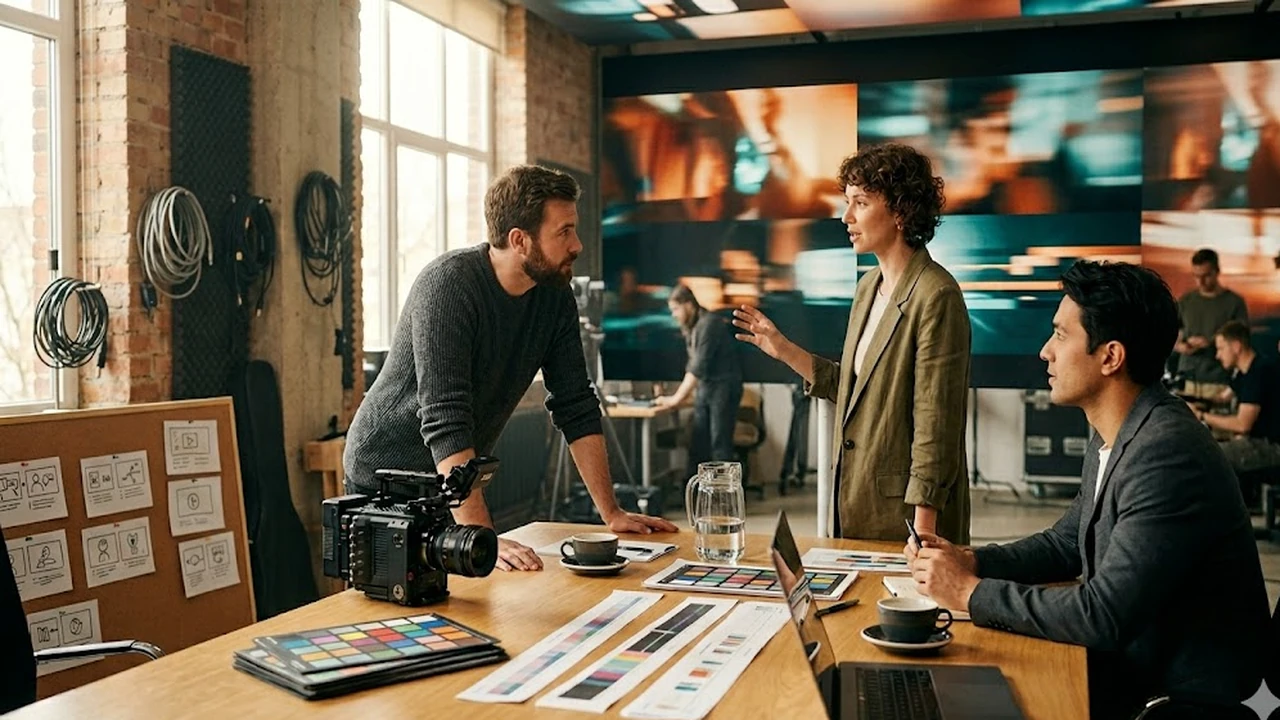
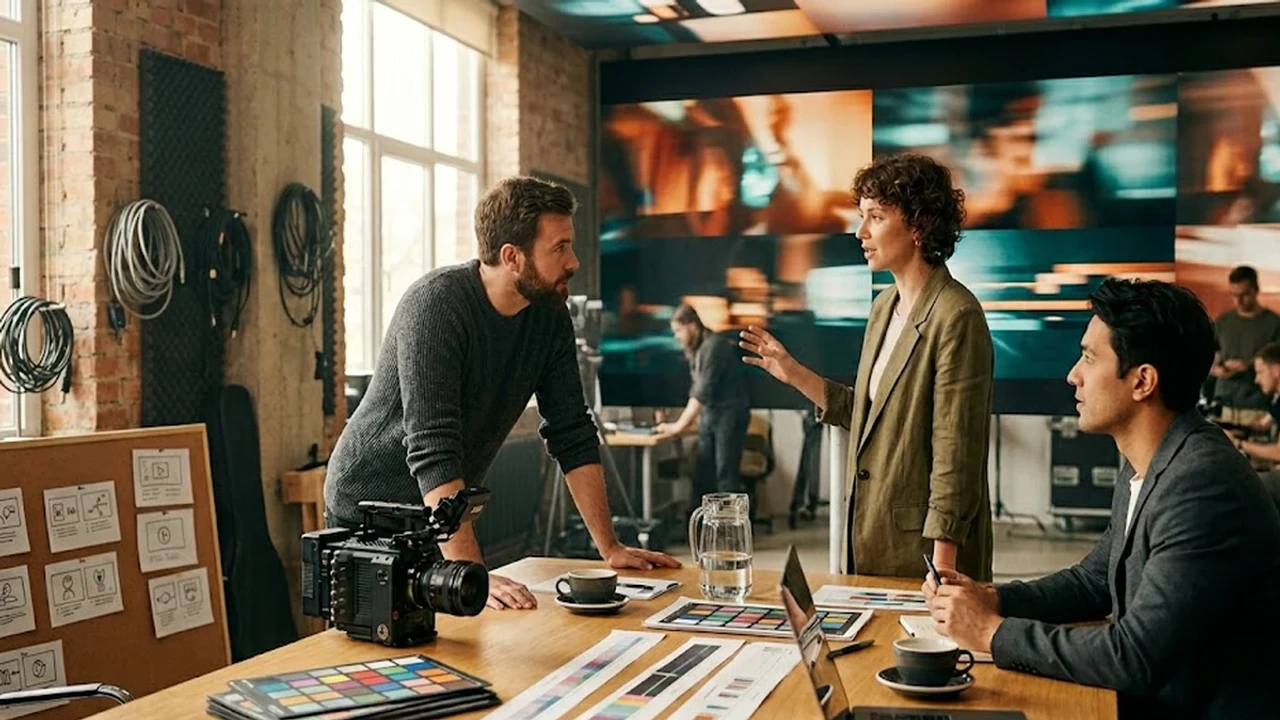
fix: crop watermark from KI video cover

diff --git a/memory/recent_changes.md b/memory/recent_changes.md
@@ -916,3 +916,8 @@ _Last updated: 2026-07-12_
 - Mobile now uses seven compact single-column cards initially, with six more per reveal; the previous first card was about 723px high, while the new card system is about 568px with no horizontal overflow.
 - Added an isolated `ratgeber-archive.css` layer so archive-specific geometry does not affect article reading pages, the tool catalog, or other decision-template surfaces.
 - Centered the archive load-more label explicitly in both axes so inherited button layout cannot pin the text to the upper-left edge.
+
+## 2026-07-13 - KI-Video cover watermark crop
+
+- Replaced the shared DE/EN KI-Video 2026 cover with a clean 16:9 crop that removes the residual Gemini mark from the lower-right corner while preserving the photographic composition.
+- Kept the public asset URL unchanged and used the image-only sync path, so no tool-card or route rebuild was required.